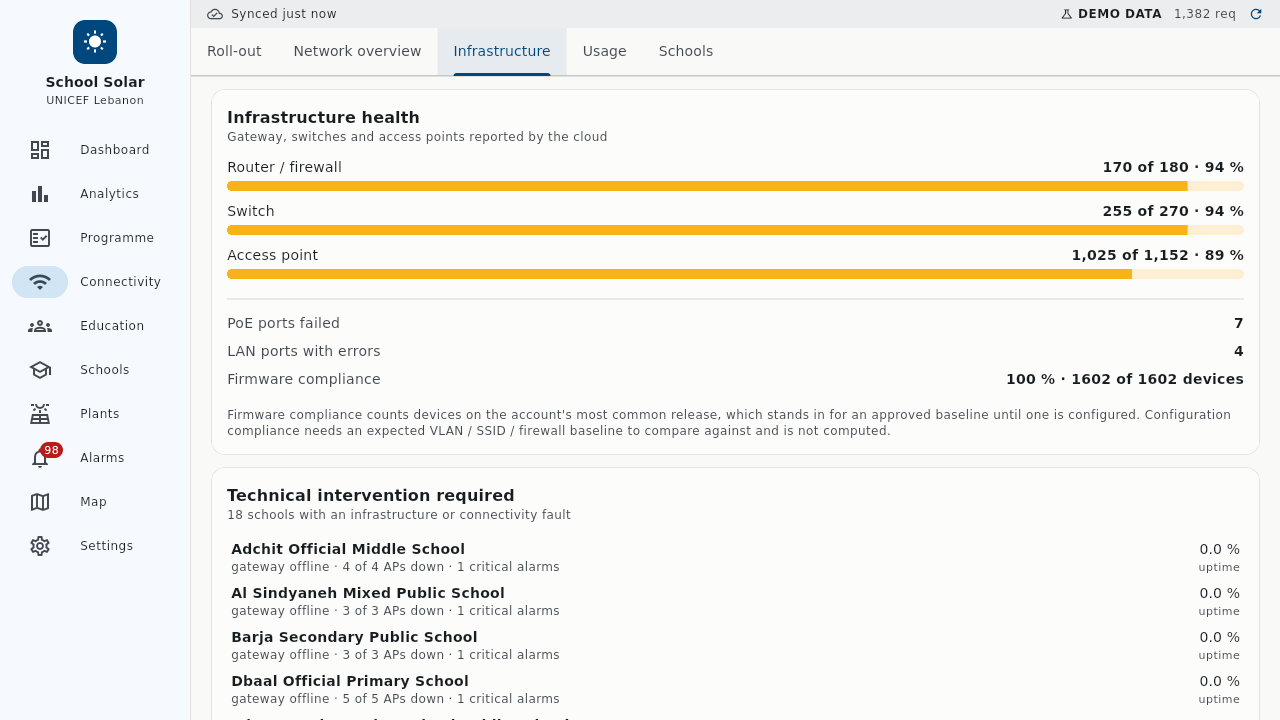
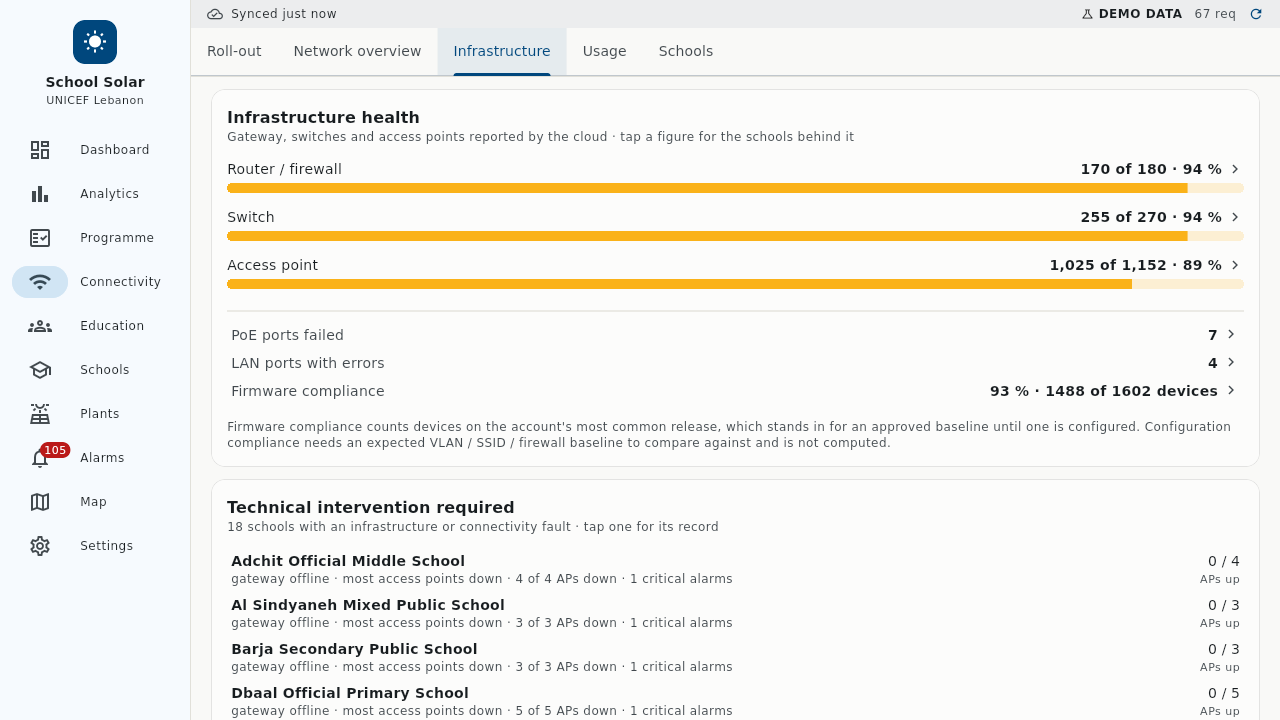
Show the drill-downs in the screenshots
Captured from the Linux build in demo mode: a headline tile opening the
schools behind it, one school's full network record, and an infrastructure
figure opening the schools that carry the fault.

Claude-Session: https://claude.ai/code/session_01CaQ1Ti7UobeCWXTw2r4q8J

diff --git a/test/link_probe_test.dart b/test/link_probe_test.dart
@@ -1,0 +1,22 @@
+import 'package:flutter_test/flutter_test.dart';
+import 'package:unicef_solar_monitor/core/models/school.dart';
+
+import 'package:unicef_solar_monitor/core/demo/demo_gwn_api.dart';
+import 'helpers/test_env.dart';
+
+void main() {
+  test('probe', () async {
+    final env = await TestEnv.create(schools: 10, networks: 180);
+    addTearDown(env.dispose);
+    final nets = await env.db.networks.getNetworks();
+    print('networks=${nets.length} linked=${nets.where((n) => n.cerd != null).length}');
+    print('names: ${nets.take(5).map((n) => n.name).toList()}');
+    final seeds = TestEnv.dataset.demoSeeds;
+    print('seeds=${seeds.length}');
+    final api = DemoGwnApi(seeds: seeds, networks: 180);
+    final list = await api.listNetworks();
+    final names = list.map((n) => n.name).toList();
+    print('unique demo names=${names.toSet().length} of ${names.length}');
+    print(School);
+  });
+}

diff --git a/README.md b/README.md
@@ -178,6 +178,18 @@ off the repository: losing it means every tablet has to uninstall and reinstall 
 |-----------------------------------------|--|
 | ![Network schools](docs/screenshots/network_schools.png) | |
 
+Every number on the connectivity dashboards opens what it is made of — the
+definition, the thresholds in force, and the schools behind the figure, each
+of which opens its own record.
+
+| A headline tile and the schools behind it | One school's full network record |
+|--------------------------------------------|-----------------------------------|
+| ![Headline drill-down](docs/screenshots/network_drill_tile.png) | ![School record](docs/screenshots/network_school_record.png) |
+
+| An infrastructure figure and the schools behind it | |
+|------------------------------------------------------|--|
+| ![Infrastructure drill-down](docs/screenshots/network_drill_infrastructure.png) | |
+
 | Schools directory | School record |
 |-------------------|---------------|
 | ![Schools](docs/screenshots/schools.png) | ![School record](docs/screenshots/school_record.png) |
